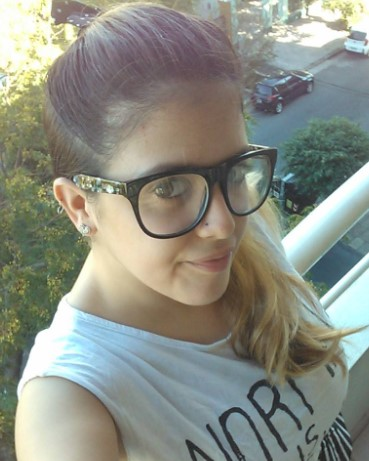
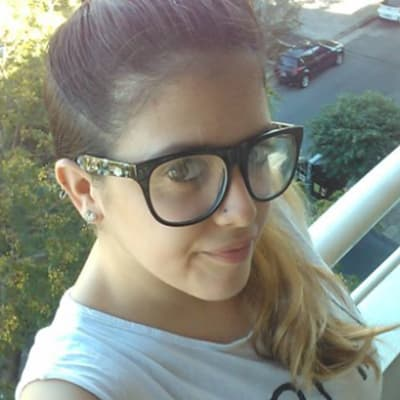
Update images

diff --git a/ui/display/Markdown.tsx b/ui/display/Markdown.tsx
@@ -13,9 +13,8 @@ const components = {
   ul: UnorderedList,
   li: (props: any) => <ListItem listStyleType="none" {...props} />,
   a: ({children, href}: any) => (
-    <Link isExternal href={href}>
-      {" "}
-      {children}{" "}
+    <Link isExternal href={href} marginX={1}>
+      {children}
     </Link>
   ),
 };

diff --git a/data/entries/g0nza.md b/data/entries/g0nza.md
@@ -1,17 +1,17 @@
 ---
-id: g0nza 
+id: g0nza
 name: Gonzalo Flores 🚀
 github: gonza-lab
 email: gonzaflores358@gmail.com
 linkedin: gonzadev
 website: https://www.gonzaloflores.dev/
-bio: My passion is development. I really like to learn and I am constantly learning to improve day by day. I am a person who likes challenges, I consider that it is something that makes us overcome a lot. I also like to be involved in the community and help other people achieve their goals. 
-testimonial: 
+bio: My passion is development. I really like to learn and I am constantly learning to improve day by day. I am a person who likes challenges, I consider that it is something that makes us overcome a lot. I also like to be involved in the community and help other people achieve their goals.
+testimonial:
 company: Esto Es
-position: Full Stack Developer 
+position: Full Stack Developer
 technologies: [React, Nest, Next]
 country: ar
-avatar: /avatars/g0nza.png
+avatar: /avatars/g0nza.jpg
 ---
 
 - 🌕 Frontend: React, Angular, SASS, Next

diff --git a/data/entries/fom78.md b/data/entries/fom78.md
@@ -10,7 +10,7 @@ bio: Web developer, in continuous training! Self-taught, I learn from the web an
 position: En búsqueda laboral
 technologies: [React, NextJS, NodeJS, MongoDB, MySql]
 country: ar
-avatar: /avatars/fom78.png
+avatar: /avatars/fom78.jpg
 ---
 
 # Desarrollador web en crecimiento 👋
@@ -28,11 +28,11 @@ avatar: /avatars/fom78.png
 
 ## Tambien realizando para mi hija
 
-- Siguiendo pasos del youtuber goncy 
+- Siguiendo pasos del youtuber goncy
 - Aprendiendo TypeScript
 - Poniendome serio en los test tanto unitarios como de integracion
 - ⚡ [eCommerce Aromas del Corazon](https://aromasdelcorazon.vercel.app/)
-         
+
 ---
 
 
